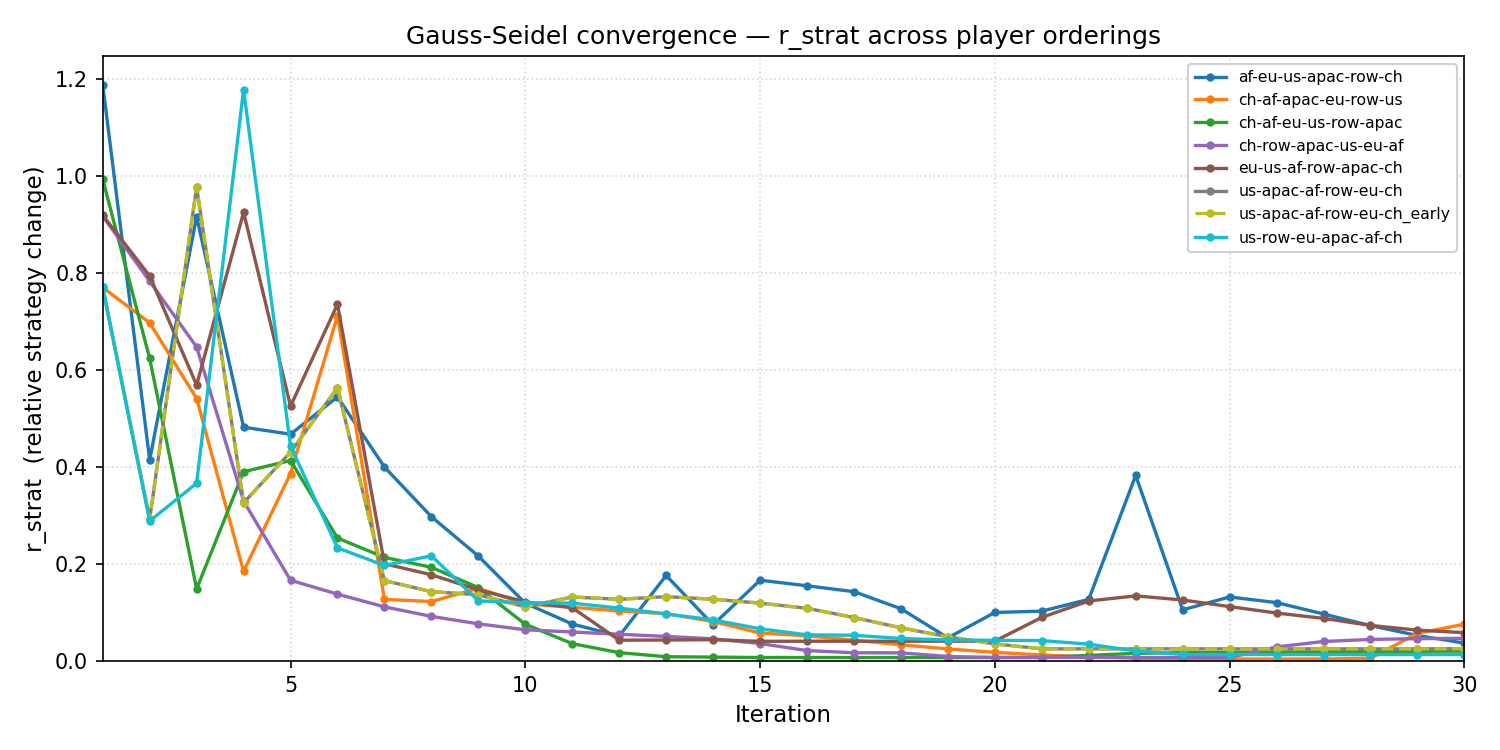
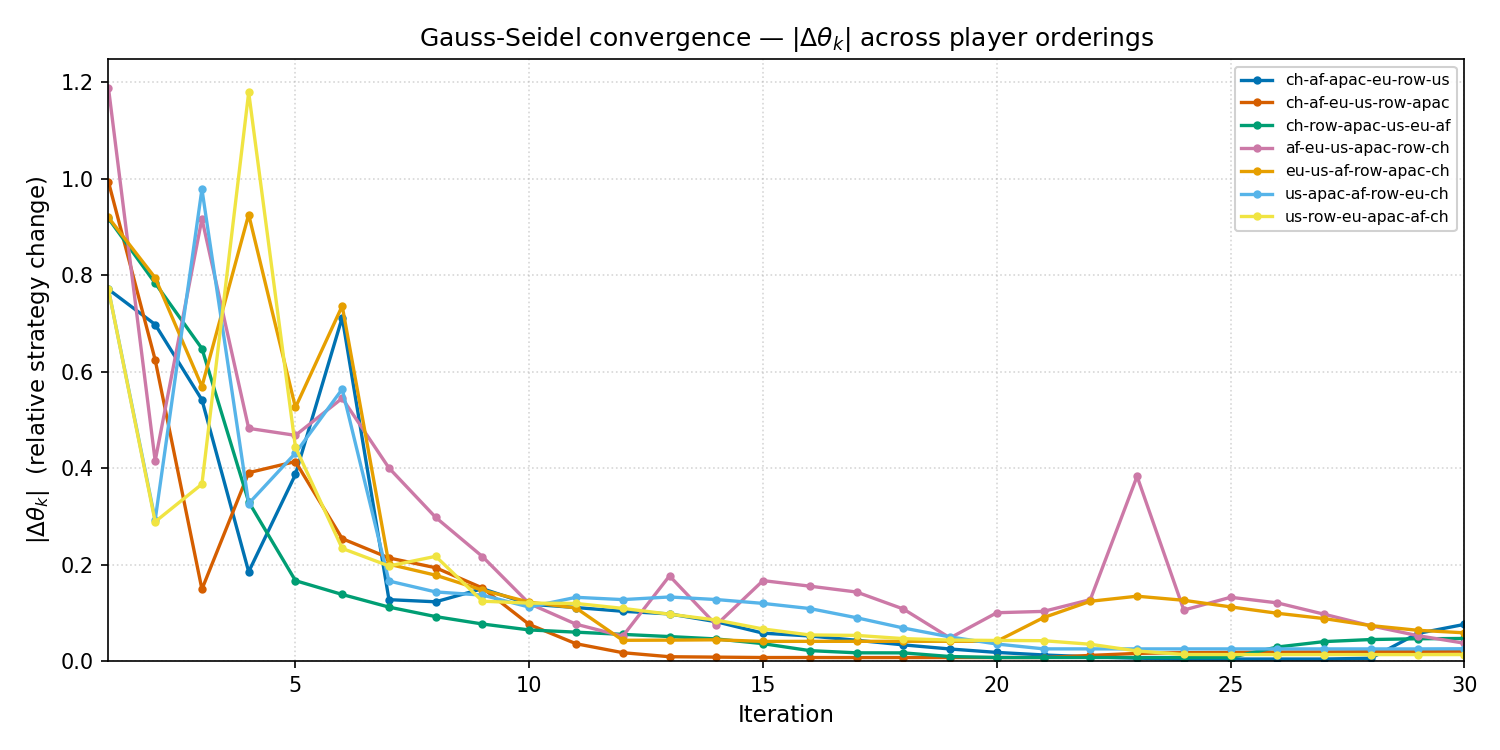
dd

diff --git a/plots/plot_convergence.py b/plots/plot_convergence.py
@@ -10,24 +10,37 @@ import pandas as pd
 import matplotlib
 matplotlib.use("Agg")
 import matplotlib.pyplot as plt
-import matplotlib.cm as cm
-import numpy as np
 
 SCRIPT_DIR = os.path.dirname(os.path.abspath(__file__))
 SENS_DIR   = os.path.join(SCRIPT_DIR, "..", "outputs", "sens")
 OUT_DIR    = os.path.join(SCRIPT_DIR, "..", "outputs", "figures")
 os.makedirs(OUT_DIR, exist_ok=True)
 
+# Okabe-Ito colorblind-safe palette (standard in academic publications)
+OKABE_ITO = [
+    "#0072B2",  # blue
+    "#D55E00",  # vermillion
+    "#009E73",  # bluish green
+    "#CC79A7",  # reddish purple
+    "#E69F00",  # orange
+    "#56B4E9",  # sky blue
+    "#F0E442",  # yellow
+    "#000000",  # black
+]
+
 # ---------------------------------------------------------------------------
 # Load iters data from all sens files
 # ---------------------------------------------------------------------------
-sens_files = sorted(glob.glob(os.path.join(SENS_DIR, "sens_*.xlsx")))
+sens_files = sorted(glob.glob(os.path.join(SENS_DIR, "**", "sens_*.xlsx"), recursive=True))
 
 runs = {}
 for fpath in sens_files:
     name = os.path.splitext(os.path.basename(fpath))[0]
     # strip "sens_" prefix for cleaner labels
     label = name.replace("sens_", "")
+    # drop the run ending in ch_early
+    if label.endswith("ch_early"):
+        continue
     df = pd.read_excel(fpath, sheet_name="iters")
     runs[label] = df
 
@@ -36,7 +49,7 @@ for fpath in sens_files:
 # ---------------------------------------------------------------------------
 fig, ax = plt.subplots(figsize=(10, 5))
 
-colors = cm.tab10(np.linspace(0, 1, len(runs)))
+colors = [OKABE_ITO[i % len(OKABE_ITO)] for i in range(len(runs))]
 
 for (label, df), color in zip(runs.items(), colors):
     ls = "--" if label.endswith("_early") else "-"
@@ -44,8 +57,8 @@ for (label, df), color in zip(runs.items(), colors):
             linestyle=ls, linewidth=1.6, marker="o", markersize=3)
 
 ax.set_xlabel("Iteration", fontsize=11)
-ax.set_ylabel("r_strat  (relative strategy change)", fontsize=11)
-ax.set_title("Gauss-Seidel convergence — r_strat across player orderings", fontsize=12)
+ax.set_ylabel(r"$|\Delta\theta_k|$  (relative strategy change)", fontsize=11)
+ax.set_title(r"Gauss-Seidel convergence — $|\Delta\theta_k|$ across player orderings", fontsize=12)
 ax.legend(fontsize=7.5, loc="upper right", framealpha=0.9)
 ax.set_xlim(1, max(df["iter"].max() for df in runs.values()))
 ax.set_ylim(bottom=0)
